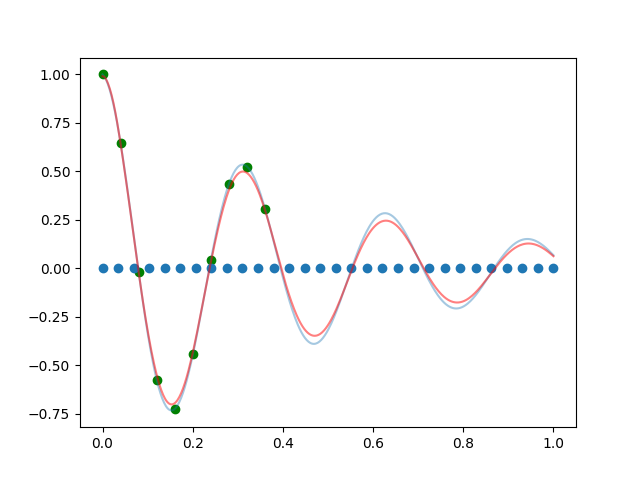
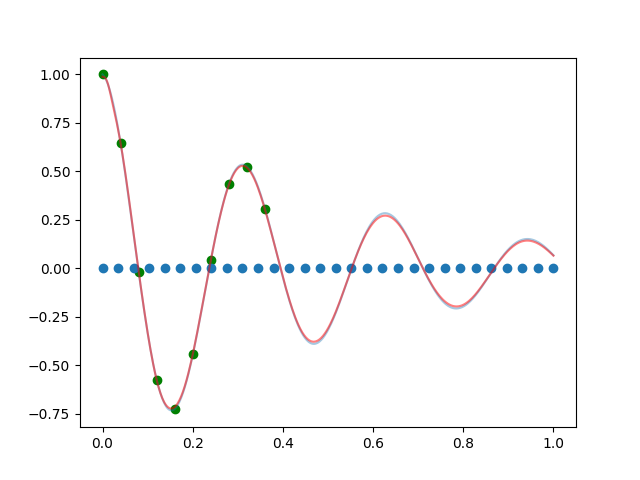
increased epoch from 20k to 50k

diff --git a/testtf.py b/testtf.py
@@ -44,6 +44,7 @@ class NNmodel(tf.Module):
 
 
         self.trained = False
+        self.trainable_variables
 
     def forward(self, x):
         for hl in self.hiddenlayers:
@@ -59,19 +60,21 @@ class NNmodel(tf.Module):
                 tape_deriv.watch(x_phys)    
                 y_pred_phys = self.forward(x_phys)
                 y_x = tape_deriv.gradient(y_pred_phys, x_phys)
-                y_xx = tape_deriv.gradient(y_x, x_phys)
-                f = y_xx + b/m*y_x + k/m*y_pred_phys
+            y_xx = tape_deriv.gradient(y_x, x_phys)
+            f = m*y_xx + b*y_x + k*y_pred_phys
             loss_data = loss(y, y_pred_data)
             loss_phys = loss(f, tf.zeros_like(f))
             mseloss = loss_data + 1e-4*loss_phys
-            print(mseloss)
         grad = tape.gradient(mseloss, self.trainable_variables)
-        return grad
+        return mseloss, grad
     
     def train(self, x, y, x_phys, y_phys, m, b, k, epoch = 1000, lr = 1e-4):
         optim = tf.optimizers.Adam(learning_rate = lr)
-        for _ in range(epoch):
-            grad = self.backprop(x, y, x_phys, y_phys, m, b, k)
+        for i in range(epoch):
+            loss, grad = self.backprop(x, y, x_phys, y_phys, m, b, k)
+            if i % 1000 == 0:
+                print(loss)
+
             optim.apply_gradients(zip(grad, self.trainable_variables))
         self.trained = True
 
@@ -98,7 +101,7 @@ x_data = x[0:200:20]
 t_phys = tf.cast(tf.expand_dims(tf.linspace(0, 1, 30), axis = -1), dtype = tf.float32)
 x_phys= tf.exp(-b*t_phys/2*m) * tf.cos(omega*t_phys)
 
-nn.train(t_data, x_data, t_phys, x_phys, m, b, k, epoch = 20000, lr = 1e-4)
+nn.train(t_data, x_data, t_phys, x_phys, m, b, k, epoch = 50000, lr = 1e-4)
 x_pred = nn.predict(t)
 
 plt.plot(t, x, alpha = 0.4)
